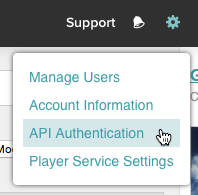
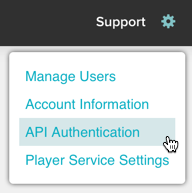
KNOW-4800

diff --git a/en/video-cloud/cms-api/guides/managing-api-credentials.html b/en/video-cloud/cms-api/guides/managing-api-credentials.html
@@ -63,7 +63,7 @@
 <ol>
     <li>Login to <a href="https://signin.brightcove.com/?redirect=https%3A%2F%2Fstudio.brightcove.com%2F">Video Cloud Studio</a>.</li>
     <li>Click the gear icon <img alt="" src="http://img.brightcove.com/node14056-gear-icon.png" width="17" height="17" /> in the header.</li>
-	<li>Click the Manage API Credentials link:<br /><img src="../../oauth-api/assets/manage-api-credentials.png" alt="account settings link" width="346" height="181"></li>
+	<li>Click the Manage API Credentials link:<br /><img src="../../oauth-api/assets/manage-api-credentials.png" alt="account settings link" width="192" height="193"></li>
     <li>The API Authentication page will open displaying your current client registrations.<br />
     <img alt="current client registrations" src="../../oauth-api/assets/manage-credentials-start.png" width="600" height="341"/><br />
     <p class="BCL-aside">Note:  Only the client registrations for the account you are logged into will display.</p>
